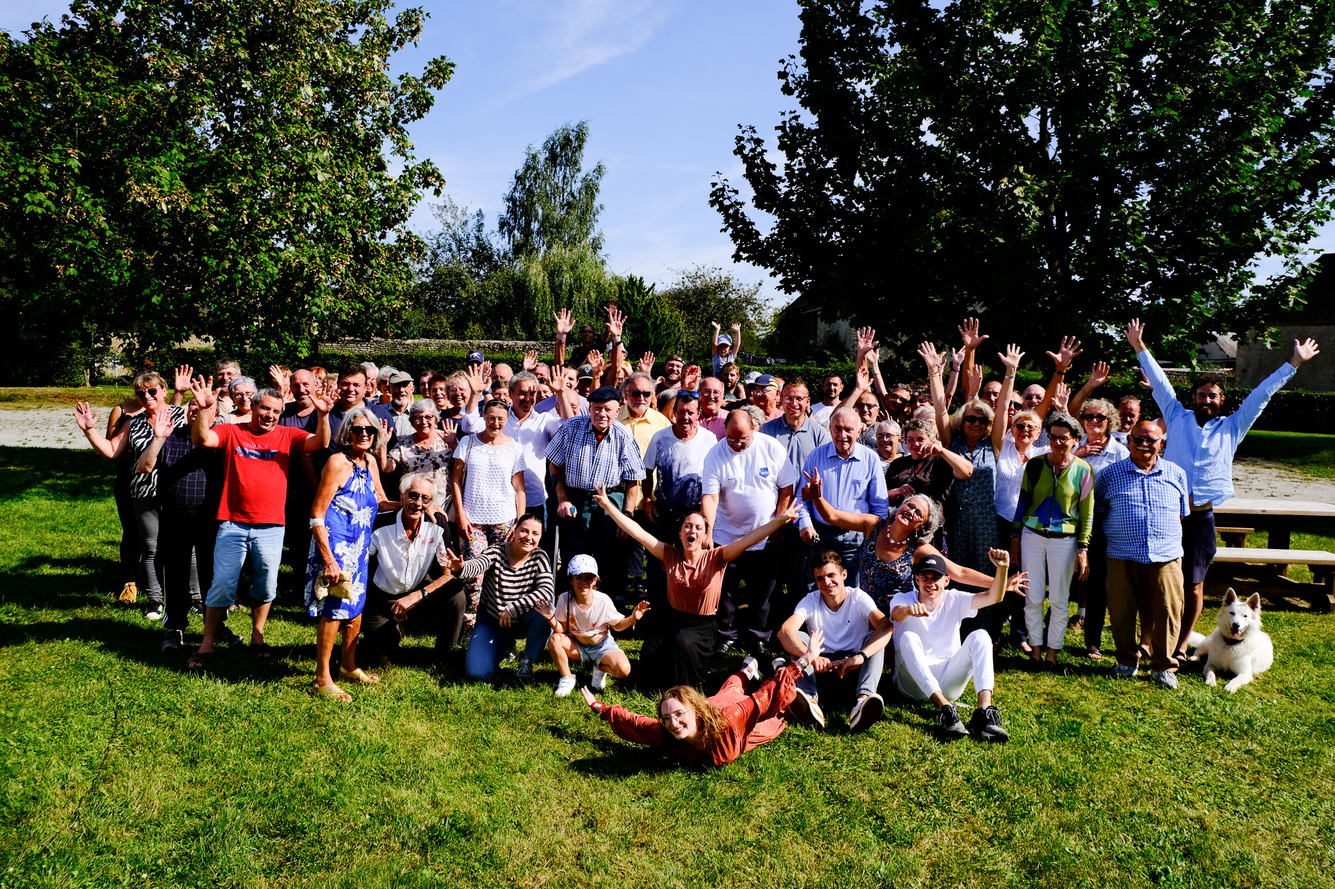
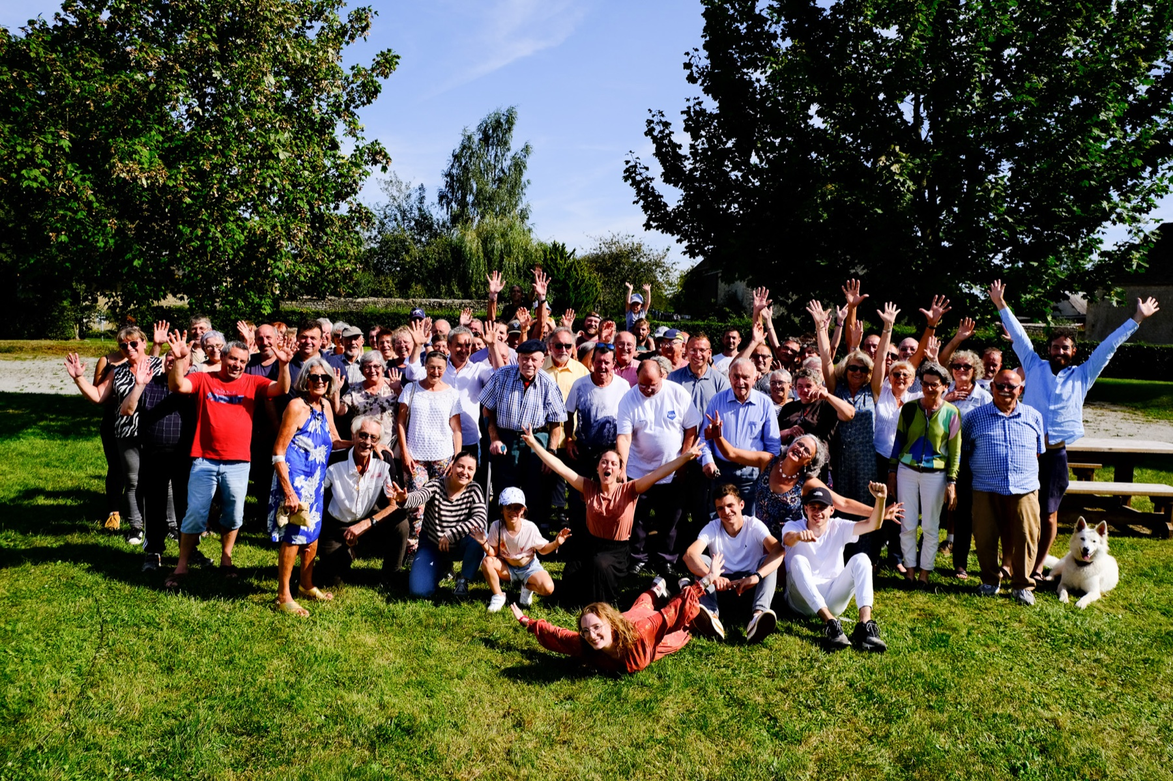
fix(contenu): réencoder les trois images d'avant la réduction (défaut 55)
Les deux images des plus anciens articles et la photo d'accueil, envoyées
avant la réduction du 08/09, passent en JPEG de 1800 points, qualité
0,85 : 3,6 Mo vers 252 Ko (le PNG devient un .jpg), 2,9 Mo vers 814 Ko,
2,0 Mo vers 1,3 Mo.

diff --git a/_actualites/2026-09-05-coucou-tout-le-monde.md b/_actualites/2026-09-05-coucou-tout-le-monde.md
@@ -1,7 +1,7 @@
 ---
 title: "Souvenir en vidéo - le repas communal 2022"
 date: 2026-09-05
-image: "/assets/img/souvenir-le-repas-communal-2022-mto4g9lh.png"
+image: "/assets/img/souvenir-le-repas-communal-2022-mto4g9lh.jpg"
 video: "https://youtu.be/aDfqIAsaLO0"
 ---
 Bienvenue à tous sur ce site web de Gâprée !
